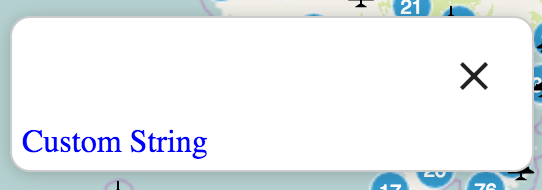
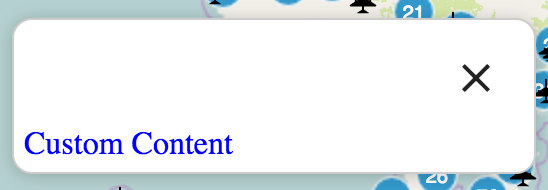
more work on infopopup docs

diff --git a/src/components/InfoPopup.md b/src/components/InfoPopup.md
@@ -7,7 +7,9 @@ Popup to show feature info. This can be through WMS / WMTS GetFeatureInfo or loc
 
 ##### How to render content on the popup:
 
-Content to be rendered on the popup must be added to the appropriate layer object with a key `popupinfo`.
+Content to be rendered on the popup must be added to the appropriate OpenLayers Layer Object with a key `popupinfo`.
+
+See [OpenLayers API](http://openlayers.org/en/latest/apidoc/ol.layer.Vector.html) for reference on ol.layer.Vector use.
 
 ```javascript
 new ol.layer.Vector({
@@ -34,10 +36,13 @@ Boundless SDK
 All Attributes (table)
 ----------------
 
-  * To include a table with all of the attributes of the selected feature (see first image above)
+  * To include a table with all of the attributes of the selected feature
 
     * `popupInfo: ‘#AllAttributes’`
 
+        ![Info Popup](../InfoPopup.png)
+
+    * See [Boundless SDK Plugin Application](http://boundlessgeo.github.io/sdk-apps/plugin) for more usage
 
 
 Select Attributes (table)
@@ -46,6 +51,20 @@ Select Attributes (table)
   * To include a table with only attributes specified, declare an array containing the string names of the attributes to be included
 
     * `popupInfo: [‘cat’, ‘TYPE’]`
+
+          ```javascript
+          new ol.layer.Vector({
+            title: 'airports',
+            id: 'lyr03',
+            popupInfo: [‘cat’, ‘TYPE’],
+            isSelectable: true,
+            geometryType: 'Point',style: styleAirports,
+            source: new ol.source.Vector({
+              format: new ol.format.GeoJSON(),
+              url: './data/airports.json'
+            })
+          })
+          ```
 
         ![Info Popup 2](../InfoPopup2.png)
 
@@ -56,9 +75,25 @@ Select Attributes (custom format)
 
   * To include feature attributes and their values without the provided table format, the string must include attribute keys wrapped in square brackets individually
 
-    * `popupInfo: '<b>cat</b>: [cat]<br/><b>IKO</b>: [IKO]<br/>'`
+    * `popupInfo: '<b>cat</b>: [cat]<br/><b>IKO</b>: [IKO]'`
+
+          ```javascript
+          new ol.layer.Vector({
+            title: 'airports',
+            id: 'lyr03',
+            popupInfo: '<b>cat</b>: [cat]<br/><b>IKO</b>: [IKO]',
+            isSelectable: true,
+            geometryType: 'Point',style: styleAirports,
+            source: new ol.source.Vector({
+              format: new ol.format.GeoJSON(),
+              url: './data/airports.json'
+            })
+          })
+          ```
 
         ![Info Popup 3](../InfoPopup3.png)
+
+    * See [Boundless SDK Basic Application](http://boundlessgeo.github.io/sdk-apps/basic) for more usage
 
     * It is not required to wrap the attribute value in HTML but HTML will be needed for any desired styling/formatting
 
@@ -67,7 +102,21 @@ Custom Content (custom format)
 
   * To include custom text in the popup without a table format, enter the string to include
 
-    * `popupInfo: '<span style="color:blue;">Custom String</span>'`
+    * `popupInfo: '<div style="color:blue;">Custom Content</div>'`
+
+          ```javascript
+          new ol.layer.Vector({
+            title: 'airports',
+            id: 'lyr03',
+            popupInfo: '<div style="color:blue;">Custom Content</div>',
+            isSelectable: true,
+            geometryType: 'Point',style: styleAirports,
+            source: new ol.source.Vector({
+              format: new ol.format.GeoJSON(),
+              url: './data/airports.json'
+            })
+          })
+          ```
 
         ![Info Popup 4](../InfoPopup4.png)
 
